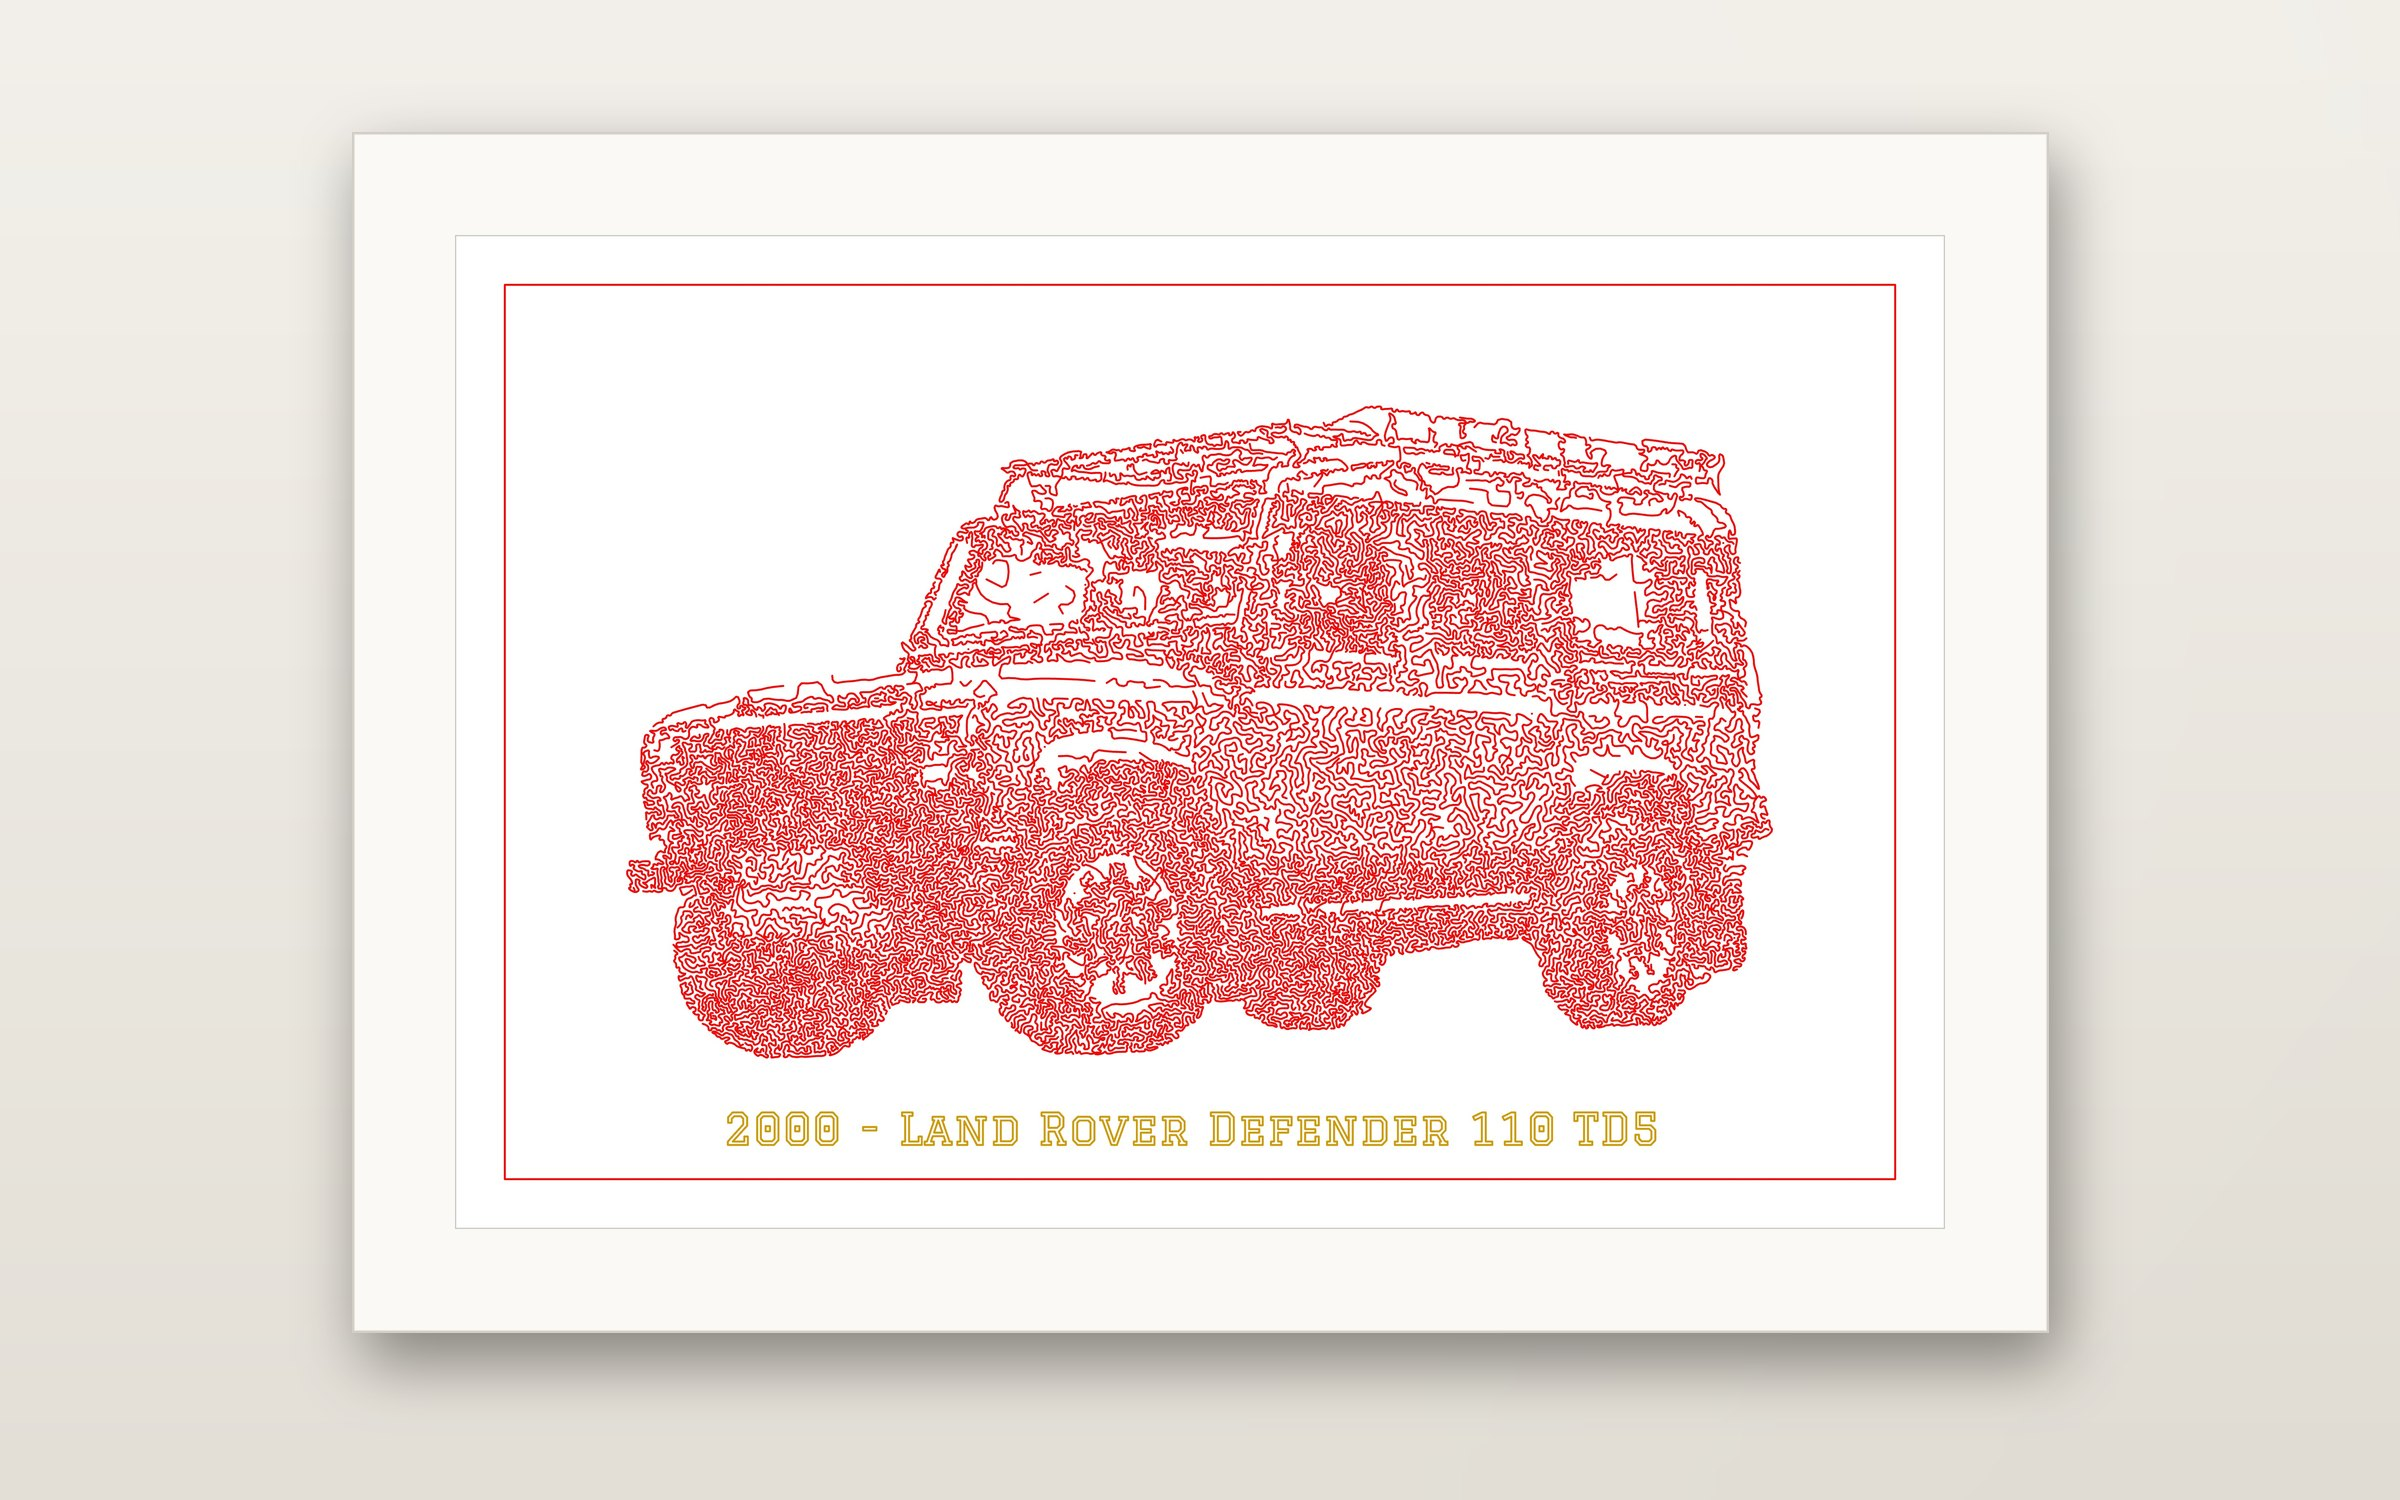
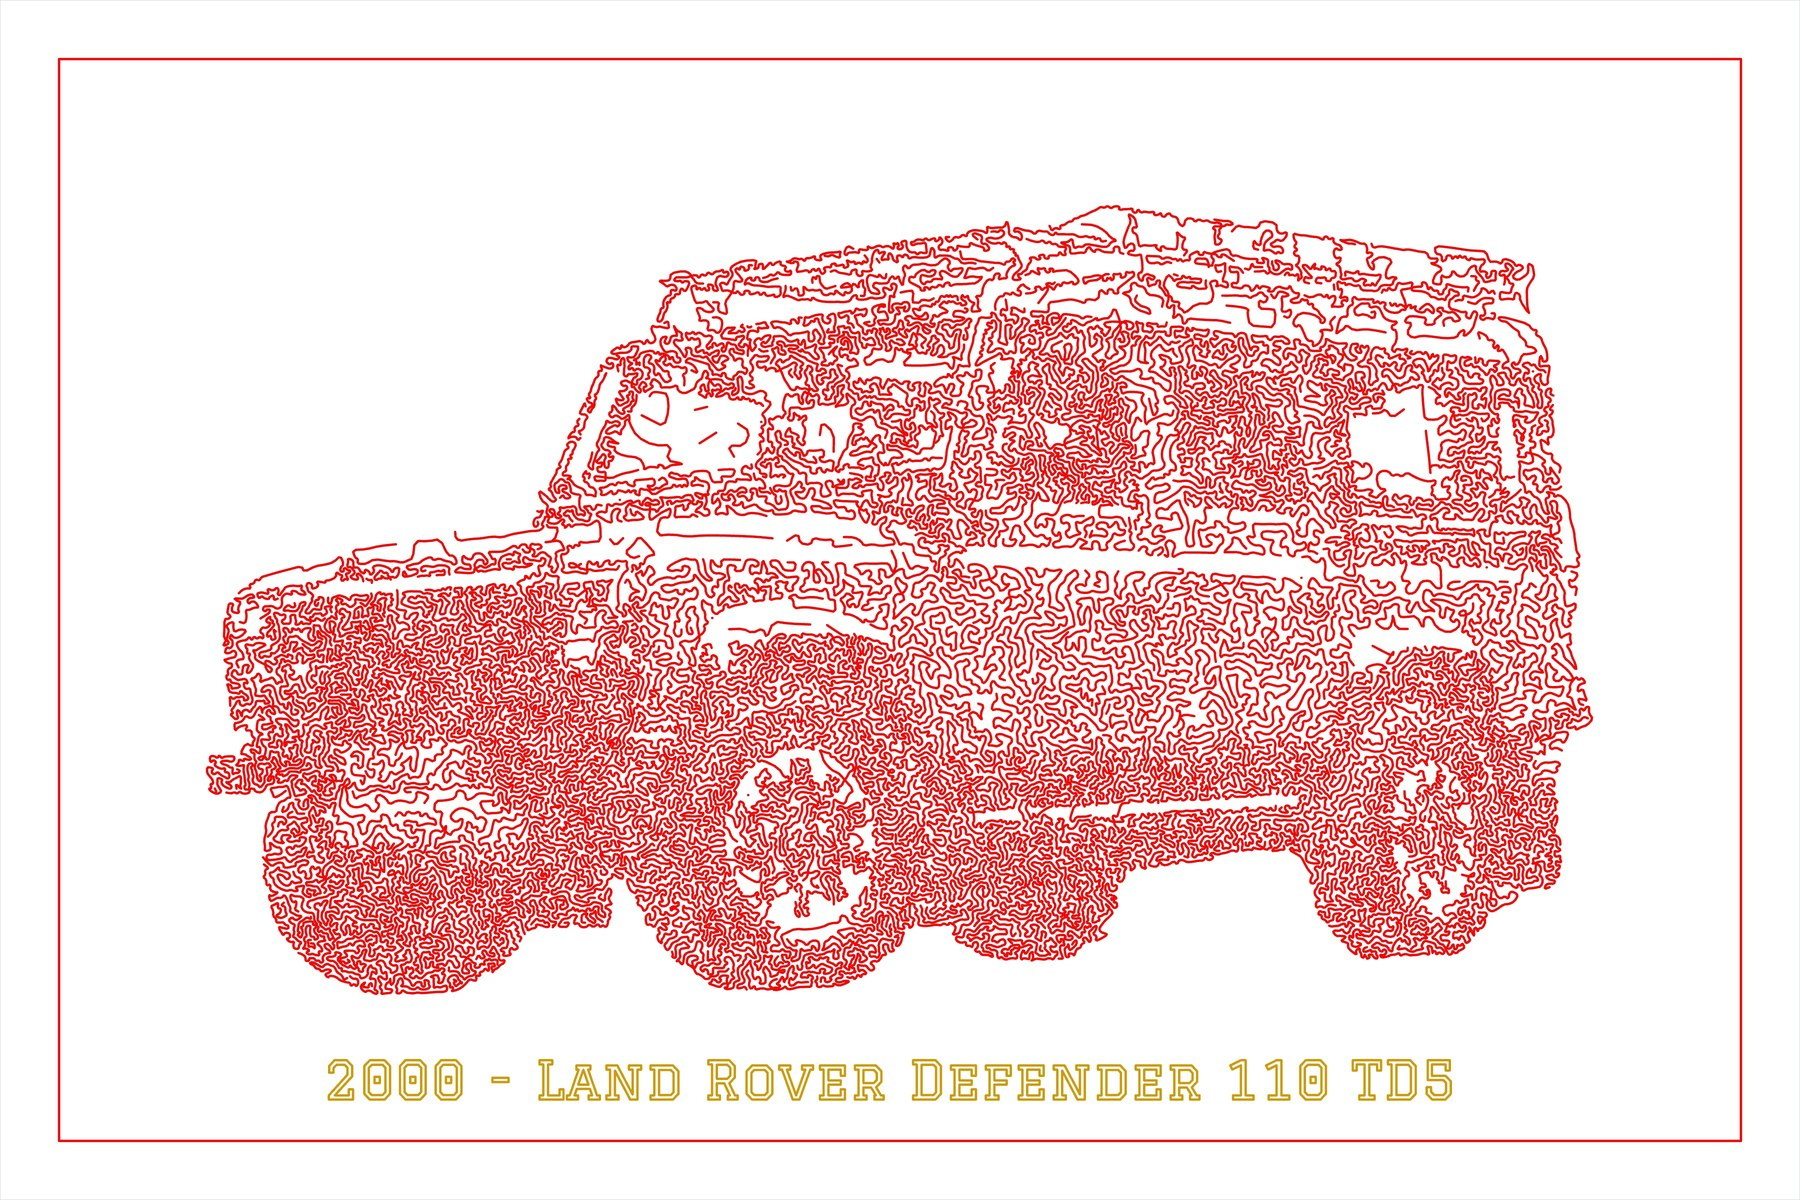
Add files via upload

diff --git a/src/components/HeroCarousel.tsx b/src/components/HeroCarousel.tsx
@@ -19,6 +19,7 @@ type Slide = {
   cta?: { to: string; label: string };
   ghost?: { href: string; label: string };
   sub?: string;
+  landscape?: boolean;
 };
 
 const SLIDES: Slide[] = [
@@ -45,7 +46,7 @@ const SLIDES: Slide[] = [
     cta: { to: "/create?product=sports",
            label: `Start a portrait — ${money(PRODUCTS.sports.priceCents)}` },
     ghost: { href: "#how", label: "How it works" } },
-  { kind: "art", img: "/gallery/hero-defender.jpg",
+  { kind: "art", img: "/gallery/hero-defender.jpg", landscape: true,
     alt: "Hand-plotted 2000 Land Rover Defender 110 TD5, red ink with gold title, framed",
     wall: "radial-gradient(120% 90% at 35% 18%, #f1eee8 0%, #e4dfd4 55%, #d4cec1 100%)",
     zoom: "kb-in", tone: "light",
@@ -129,7 +130,10 @@ export default function HeroCarousel() {
                                   shadow-[0_30px_60px_-12px_rgba(8,43,74,0.45),0_18px_26px_-14px_rgba(0,0,0,0.35)]">
                     <div className="bg-white p-[16px]">
                       <img src={s.img} alt={s.alt} draggable={false}
-                           className="block max-h-[56vh] max-w-[86vw] w-auto object-contain" />
+                           className={"block w-auto object-contain "
+                             + (s.landscape
+                                ? "max-h-[42vh] max-w-[min(56vh,86vw)]"
+                                : "max-h-[56vh] max-w-[86vw]")} />
                     </div>
                   </div>
                   <div className="absolute -bottom-8 left-1/2 -translate-x-1/2
